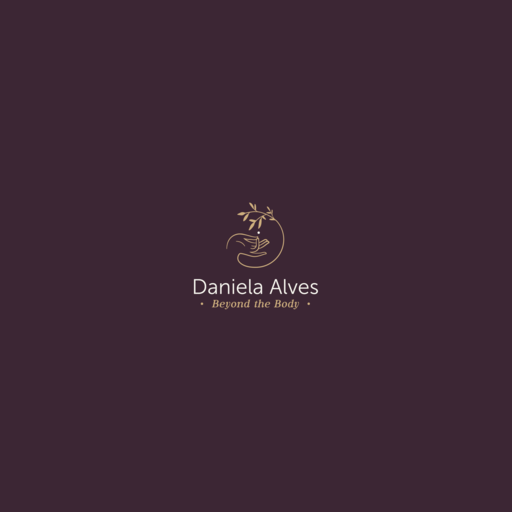
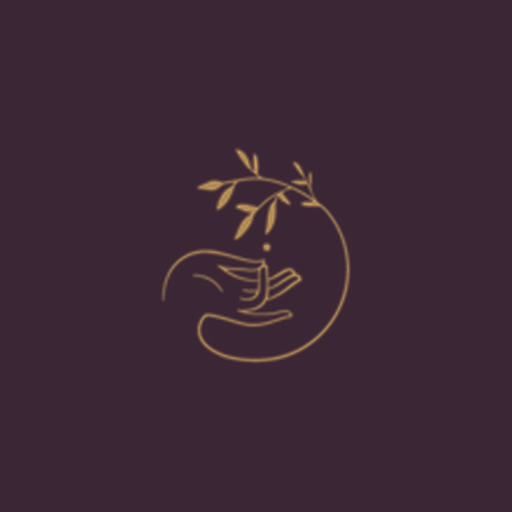
fix: PWA manifest exposed CRM to all visitors
The manifest was named "Daniela Alves CRM" with start_url pointing
to /admin/dashboard, making the install prompt visible to all site
visitors and revealing the admin system exists. Fixed:
- name/description now reflect the public therapy site
- start_url changed to "/" (public landing page)
- theme/background colors updated to brand #3B2635
- pwa-192x192 icon regenerated (was outdated "Healing & Wellness")

Changed region(s): [[0.3125, 0.2812, 0.625, 0.7188], [0.625, 0.4375, 0.6875, 0.6562], [0.625, 0.4062, 0.6562, 0.4375]]

diff --git a/vite.config.ts b/vite.config.ts
@@ -20,13 +20,13 @@ export default defineConfig(({ mode }) => ({
       registerType: "autoUpdate",
       includeAssets: ["favicon.ico", "apple-touch-icon.png"],
       manifest: {
-        name: "Daniela Alves CRM",
-        short_name: "Daniela CRM",
-        description: "Healing & Harmony - Gestão de Clientes",
-        theme_color: "#7B6B99",
-        background_color: "#FAF7F5",
+        name: "Daniela Alves — Beyond the Body",
+        short_name: "Daniela Alves",
+        description: "Terapia Holística em Sintra — Sessões de cura e harmonia para corpo e alma.",
+        theme_color: "#3B2635",
+        background_color: "#3B2635",
         display: "standalone",
-        start_url: "/admin/dashboard",
+        start_url: "/",
         icons: [
           {
             src: "/pwa-192x192.png",
